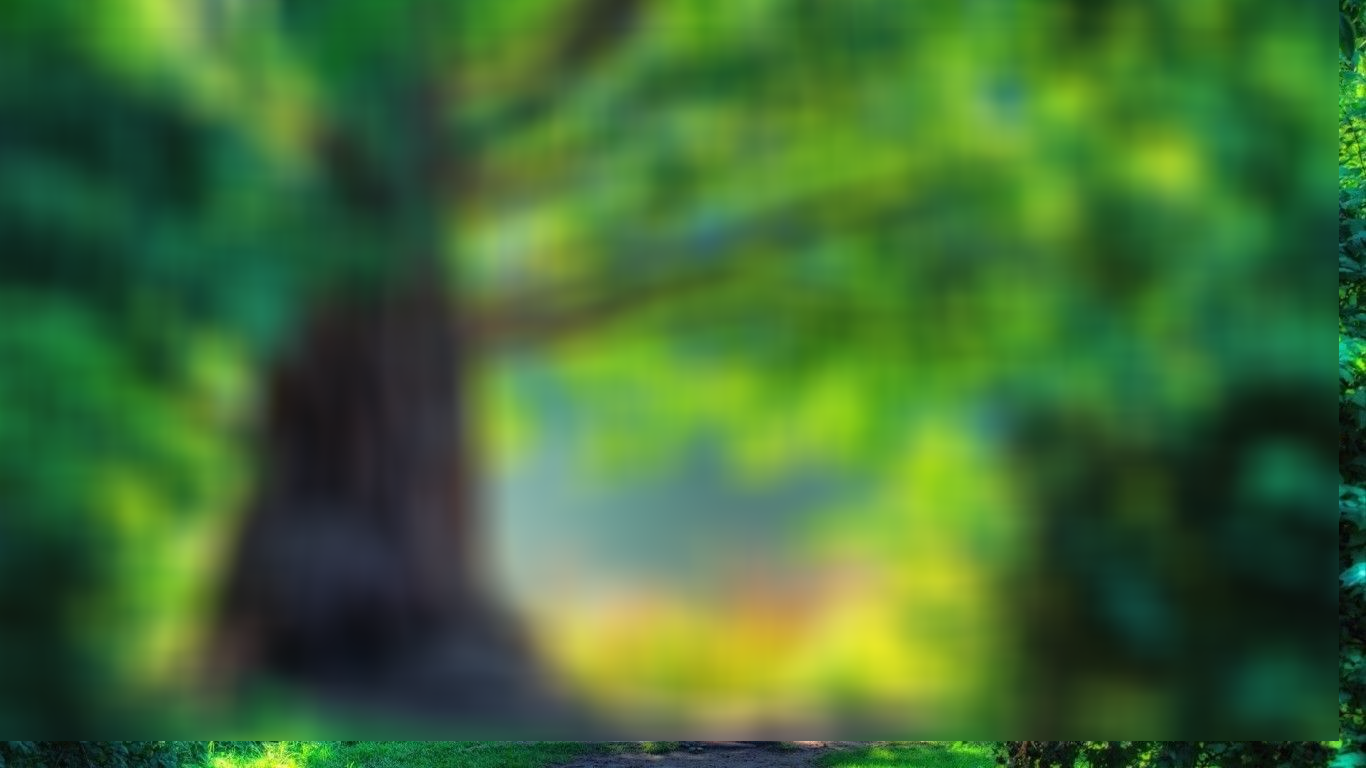
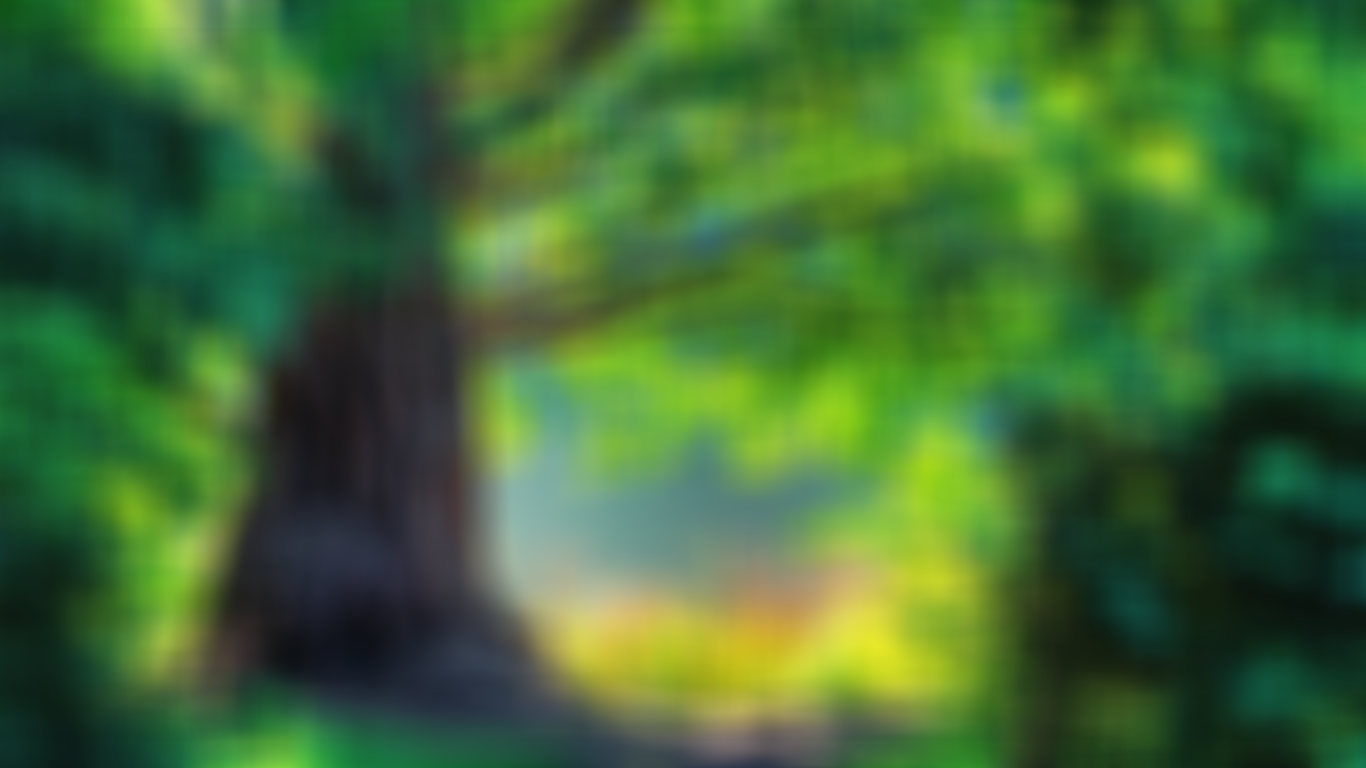
bordas inferior e direita do alg integral ok

diff --git a/02_blur/blur.py b/02_blur/blur.py
@@ -1,3 +1,4 @@
+from math import fabs
 import sys
 import timeit
 import numpy as np
@@ -50,7 +51,7 @@ def chadBlur(img, fullw):
 def blurSeparavel(img, fullW):
     halfW = fullW // 2
 
-    img_horizontal = np.copy(img.reshape((img.shape[0], img.shape[1], 3)))
+    img_horizontal = np.copy(img)
 
     for y in range(0, len(img)):
         for x in range(halfW, len(img[0])-halfW):
@@ -65,7 +66,7 @@ def blurSeparavel(img, fullW):
 
     img_return = np.copy(img_horizontal)
 
-    return img_horizontal
+    # return img_horizontal
     for y in range(halfW, len(img)-halfW):
         for x in range(halfW, len(img[0])-halfW):
             soma = 0
@@ -81,7 +82,8 @@ def blurIntegral(img, fullW):
     img_return = np.copy (img)
     img_integral = np.array
     img_integral = img.reshape((img.shape[0], img.shape[1], 3))
-
+    # print(len(img))
+    # print(len(img[0]))
     # criação da imagem integral --------------------------------
     # para cada linha y
     for y in range(0, len(img)):
@@ -103,58 +105,52 @@ def blurIntegral(img, fullW):
 
     # Obtenção da média ------------------------------------------
     # para cada pixel...
-    for y in range(0, len(img)-halfW):
-        for x in range(0, len(img[0])-halfW):
+    for y in range(0, len(img)):
+        for x in range(0, len(img[0])):
             # para cada pixel, janela:
             soma = 0
-            soma += img_integral[y+halfW, x+halfW]
+            xSoma = x+halfW
+            ySoma = y+halfW
+            # soma += img_integral[y+halfW, x+halfW]
             winW = fullW
             winH = fullW
+
+            # px na borda direita
+            if (x > (len(img[0])-1-halfW)):
+                xSoma = len(img[0]) - 1
+                winW = halfW + len(img[0]) - 1 - x
+            # px na borda inferior
+            if (y > (len(img)-1-halfW)):
+                ySoma = len(img) - 1
+                winH = halfW + len(img) - 1 - y
+
+            soma += img_integral[ySoma, xSoma]
+
             if (y>halfW):
-                soma -= img_integral[y-halfW-1, x+halfW]
+                # subtrai px superior direito de fora da janela
+                soma -= img_integral[y-halfW-1, xSoma]
             else:
+                # ajusta largura da janela: mais baixa que fullW
                 winH = y + halfW
 
             if (x>halfW):
-                soma -= img_integral[y+halfW, x-halfW-1] 
+                # subtrai px inferior esquerdo de fora da janela
+                soma -= img_integral[ySoma, x-halfW-1] 
             else:
+                # ajusta largura da janela: mais estreita que fullW
                 winW = x + halfW
 
             if (x>halfW and y>halfW):
+                # soma px superior esquerdo de fora da janela
                 soma += img_integral[y-halfW-1, x-halfW-1]
-
-            if (len(img)-halfW<y):
-                soma += img_integral[len(img), x+halfW]
-            """ soma = img_integral[y+halfW, x+halfW] - img_integral[y-halfW-1, x+halfW] - img_integral[y+halfW, x-halfW-1] + img_integral[y-halfW-1, x-halfW-1]
+  
+            """ 
+            # nos pixels que não são bordas:
+            soma = img_integral[y+halfW, x+halfW] - img_integral[y-halfW-1, x+halfW] - img_integral[y+halfW, x-halfW-1] + img_integral[y-halfW-1, x-halfW-1]
             media = soma / (fullW**2)
-            img_return[y, x] = media """
-            media = soma / (winH*winW)
             img_return[y, x] = media
-    
-    for y in range(0, halfW+1):
-        break
-        for x in range(0, len(img[0])-halfW):
-            soma = 0
-            soma += img_integral[y+halfW, x+halfW]
-            winW = fullW
-            winH = fullW
-            #print(type(soma[0]))
-            #print(img_integral[y+halfW, x-halfW-1][1])
-            """ if not (y<=halfW):
-                soma -= img_integral[y-halfW-1, x+halfW]
-                winW = x + halfW  """
-            if (x>halfW):
-                soma -= img_integral[y+halfW, x-halfW-1] 
-                winW = fullW
-                #winH = y + halfW
-                
-            """  if not (y<=halfW):
-                soma -= img_integral[y-halfW-1, x+halfW]
-            if not (x<=halfW):
-                soma -= img_integral[y+halfW, x-halfW-1] 
-            if (x>=halfW and y>=halfW):
-                soma += img_integral[y-halfW-1, x-halfW-1] """
-                
+            """
+
             media = soma / (winH*winW)
             img_return[y, x] = media
 
@@ -185,19 +181,21 @@ def main ():
         img_output = blurIngenuo(img, 9)
         cv2.imwrite('04 - blurIngenuo.png', img_output*255)
         print ('Tempo ingênuo: %f' % (timeit.default_timer () - start_time))
+        cv2.imshow('Output', img_output)
     if separavel:
         start_time = timeit.default_timer ()
-        img_output = blurSeparavel(img, 251)
+        img_output = blurSeparavel(img, 15)
         cv2.imwrite('04 - blurSeparavel.png', img_output*255)
         print ('Tempo separável: %f' % (timeit.default_timer () - start_time))
+        cv2.imshow('Output', img_output)
     if integral:
         start_time = timeit.default_timer ()
-        img_output = blurIntegral(img, 9) 
+        img_output = blurIntegral(img, 55) 
         cv2.imwrite('04 - blurIntegral.png', img_output*255)
         print ('Tempo integral: %f' % (timeit.default_timer () - start_time))
+        cv2.imshow('Output', img_output)
 
-    # mostrar a imagem de saída
-    cv2.imshow('Output', img_output)    # TODO saída branca
+    # cv2.imshow('Output', img_output)
     cv2.waitKey ()
     cv2.destroyAllWindows ()
 
